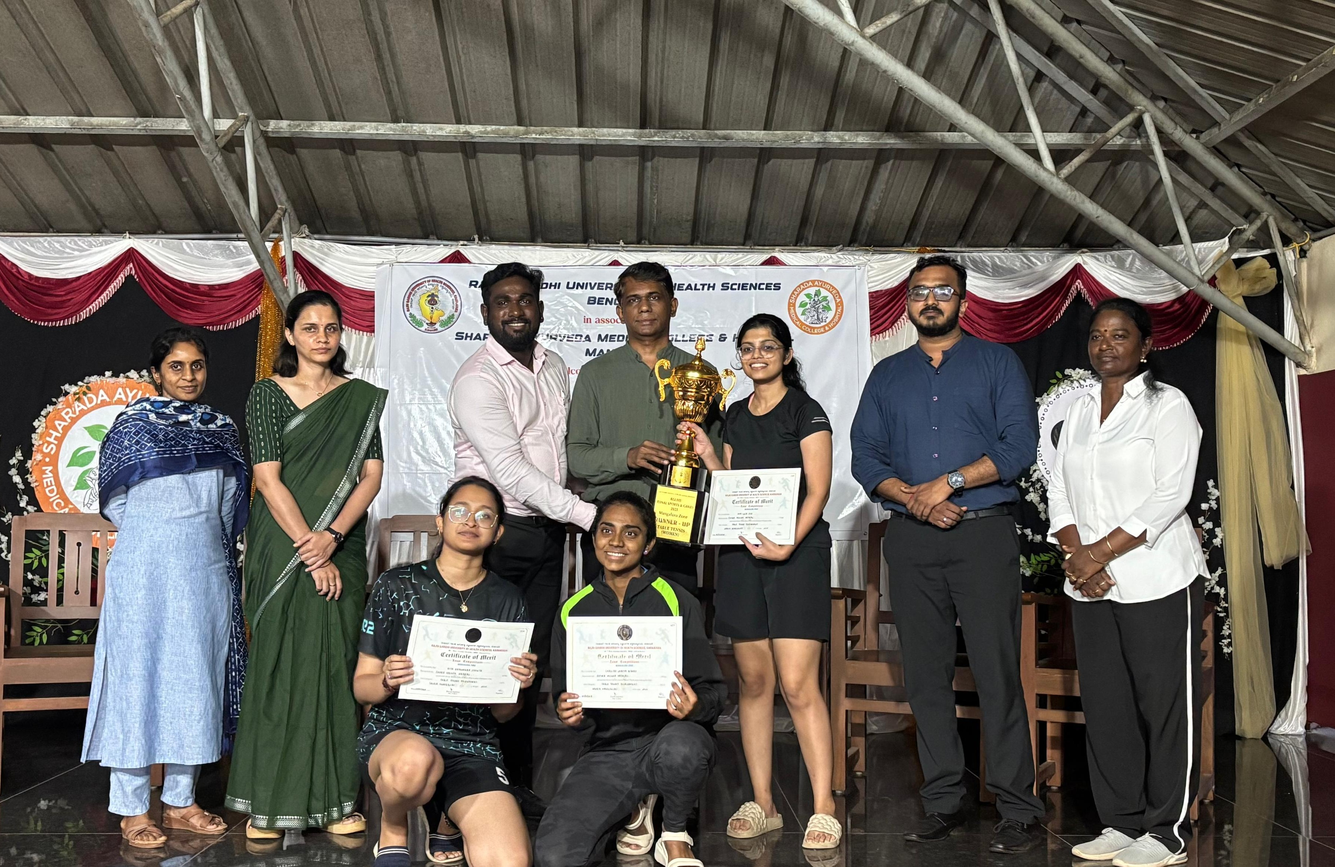
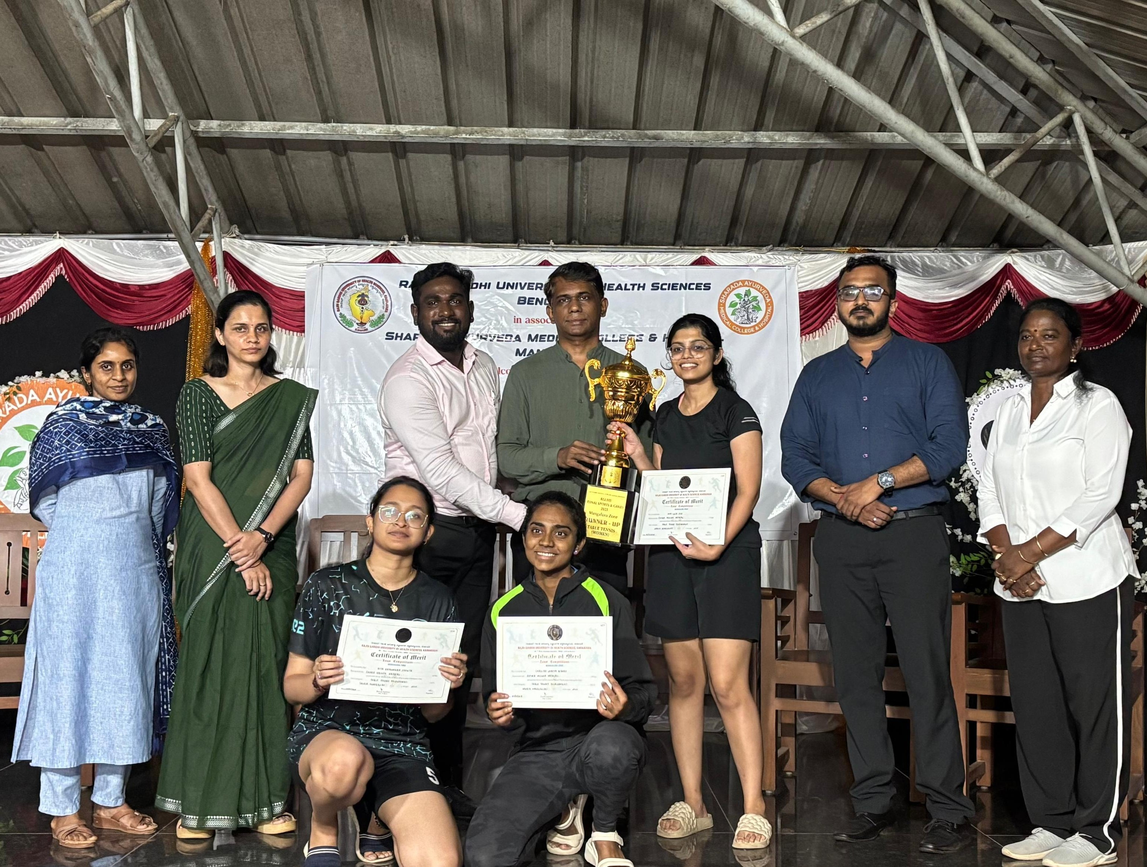
made achivements better

diff --git a/frontend/src/Pages/Home.jsx b/frontend/src/Pages/Home.jsx
@@ -16,6 +16,7 @@ import ach9 from "../assets/ach9.jpeg";
 import ach10 from "../assets/ach10.jpeg";
 import ach11 from "../assets/ach11.jpeg";
 import ach12 from "../assets/ach12.jpeg";
+import ach13 from "../assets/ach13.jpeg";
 
 import gal2 from "../assets/gal2.jpg";
 import gal3 from "../assets/gal3.jpg";
@@ -130,6 +131,7 @@ export default function Home() {
 
   { 
     img: ach6, 
+    alter: ach13,
     desc: "PTTCE student Thara N represented SBI Karnataka at the SBI All India Inter-Circle Table Tennis Tournament 2025–26 in Mumbai, winning two Silvers (Women’s Team & Doubles) and one Bronze (Mixed Doubles)." 
   },
 
@@ -298,38 +300,51 @@ export default function Home() {
             </div>
           </div>
         </div>
-         {/* Achievements Slider */}
+        {/* Achievements Slider */}
 <div className="w-full py-16 mt-[10px]">
-  <div className="max-w-[95vw] mx-auto px-2">
+  <div className="max-w-[85vw] mx-auto px-2">
 
     {/* Heading */}
     <div className="text-center mb-12">
       <h2
-        className="text-5xl font-bold mb-6 text-blue-900"
+        className="text-5xl font-bold text-blue-900"
         style={{ fontFamily: "Oswald, sans-serif" }}
       >
-       Moments of Excellence
+        Moments of Excellence
       </h2>
-      
     </div>
 
     <Slider {...sliderSettings1}>
       {achievements.map((item, index) => (
         <div key={index} className="px-4">
-          <div className="relative w-full h-[70vh] rounded-2xl overflow-hidden shadow-xl">
 
-            {/* Main Image */}
-            <img
-              src={item.img}
-              alt={`Achievement ${index + 1}`}
-              className="w-full h-full object-cover"
-            />
+          {/* Card */}
+          <div className="w-full h-[78vh] md:h-[80vh] bg-white rounded-2xl  overflow-hidden flex flex-col border border-blue-900">
 
-            {/* Description Overlay */}
+            {/* Image – desktop & tablet */}
+<div className="w-full h-[65%] md:h-[80%] hidden sm:block">
+  <img
+    src={item.img}
+    alt={`Achievement ${index + 1}`}
+    className="w-full h-full object-cover"
+  />
+</div>
+
+{/* Image – phone */}
+<div className="w-full h-[65%] block sm:hidden">
+  <img
+    src={item.alter || item.img}
+    alt={`Achievement ${index + 1}`}
+    className="w-full h-full object-cover"
+  />
+</div>
+
+
+            {/* Text – guaranteed visible */}
             {item.desc && item.desc.trim() !== "" && (
-              <div className="absolute bottom-0 w-full bg-black/50 backdrop-blur-sm p-5">
+              <div className="flex-1 px-6 py-5 flex items-center justify-center">
                 <p
-                  className="text-white text-center text-lg md:text-xl font-medium leading-relaxed"
+                  className="text-gray-800 text-center text-lg md:text-xl leading-relaxed"
                   style={{ fontFamily: "Lora, serif", whiteSpace: "pre-line" }}
                 >
                   {item.desc}
@@ -341,8 +356,11 @@ export default function Home() {
         </div>
       ))}
     </Slider>
+
   </div>
 </div>
+
+
 
        
 
@@ -358,7 +376,7 @@ export default function Home() {
             </div>
             <div className="grid md:grid-cols-2 lg:grid-cols-4 gap-10">
               {reviews.map((review, index) => (
-                <div key={index} className="bg-white rounded-xl shadow-lg p-6 hover:shadow-xl transition-shadow duration-300">
+                <div key={index} className="bg-white rounded-xl shadow-lg p-6 hover:shadow-xl transition-shadow duration-300 border border-blue-900">
                   <h3 className="text-2xl font-semibold mb-2 text-blue-900" style={{ fontFamily: 'Oswald, sans-serif' }}>{review.name}</h3>
                   <div className="flex items-center text-yellow-500 text-lg font-medium mb-4">
                     {[...Array(review.rating)].map((_, i) => <AiFillStar key={i} />)}
@@ -417,7 +435,7 @@ export default function Home() {
             </div>
             <div className="grid md:grid-cols-2 gap-8">
               {faqs.map((faq, index) => (
-                <div key={index} className="bg-white shadow-md p-6 rounded-lg hover:shadow-lg transition-shadow duration-300">
+                <div key={index} className="bg-white shadow-md p-6 rounded-lg hover:shadow-lg transition-shadow duration-300 border border-blue-900">
                   <h3 className="text-2xl font-semibold mb-2 text-blue-900" style={{ fontFamily: 'Oswald, sans-serif' }}>{faq.question}</h3>
                   <p className="text-gray-600" style={{ fontFamily: 'Lora, serif' }}>{faq.answer}</p>
                 </div>
